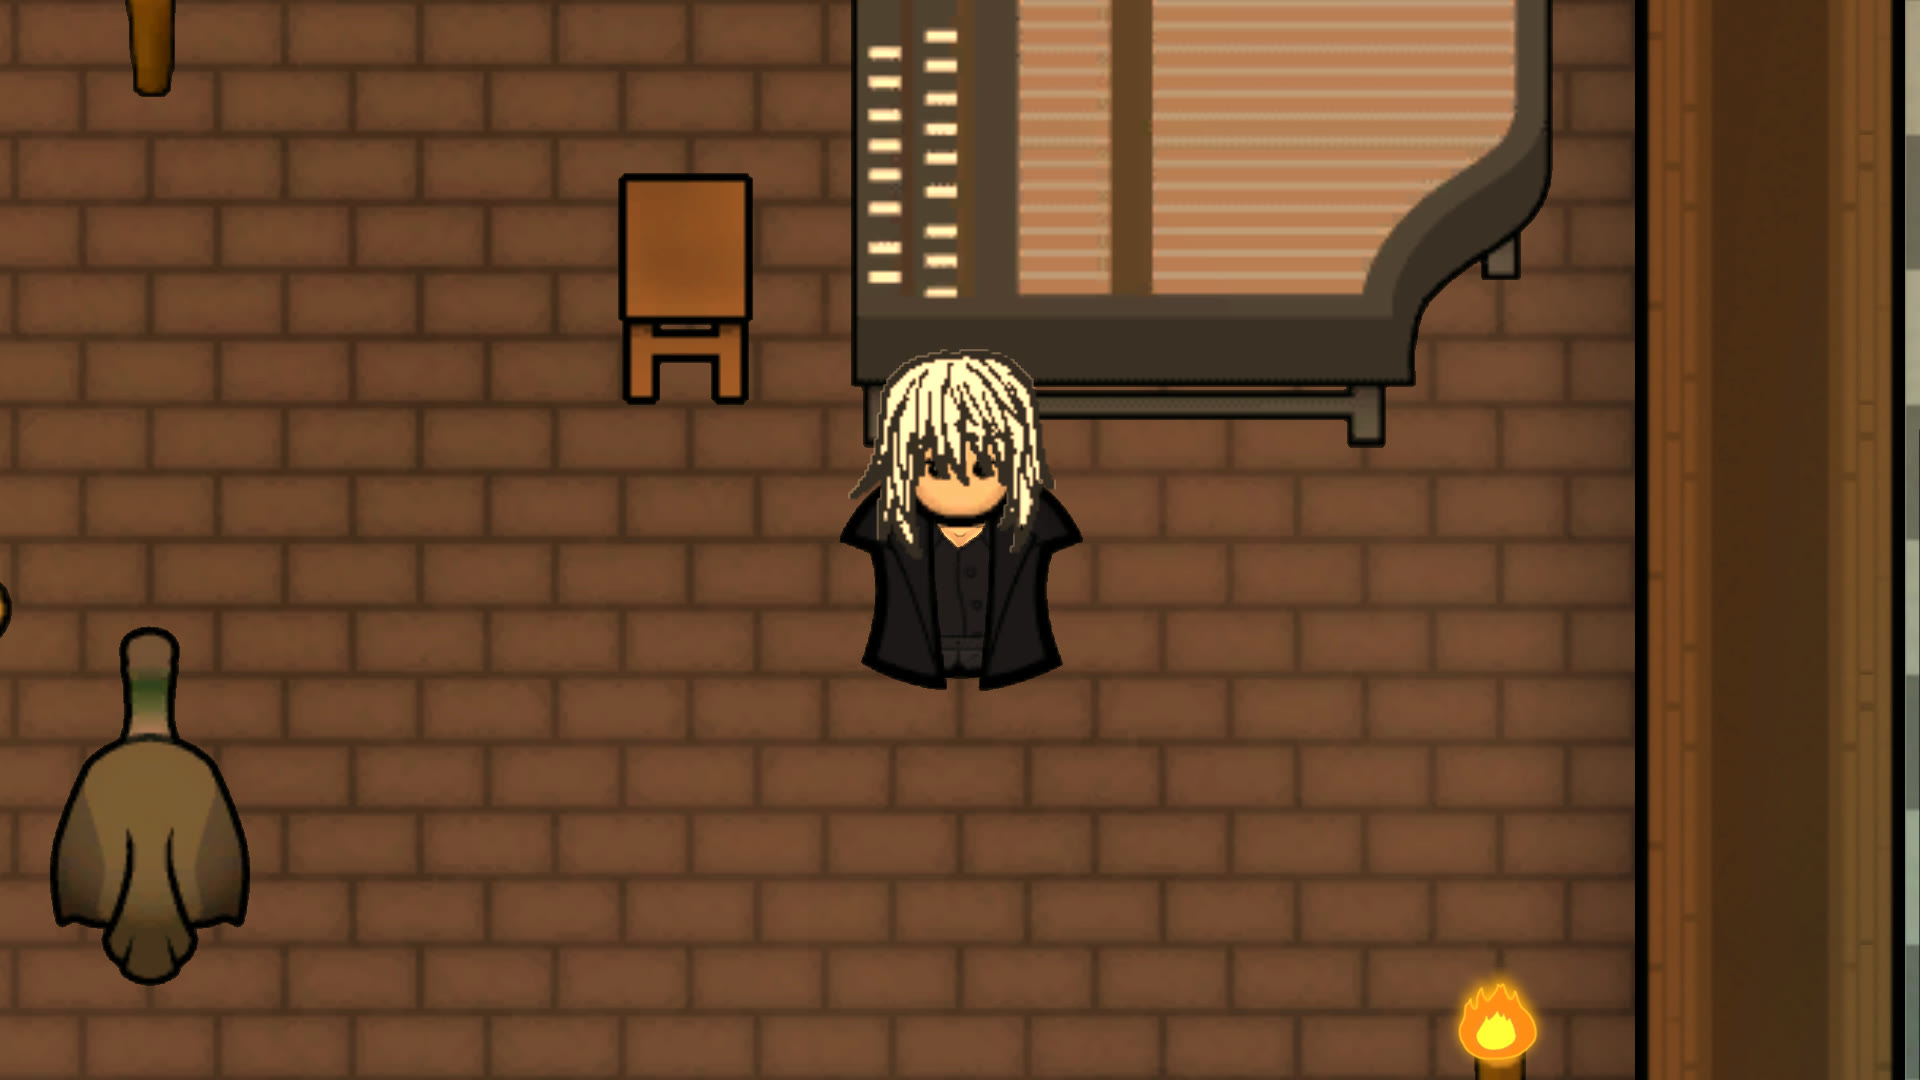
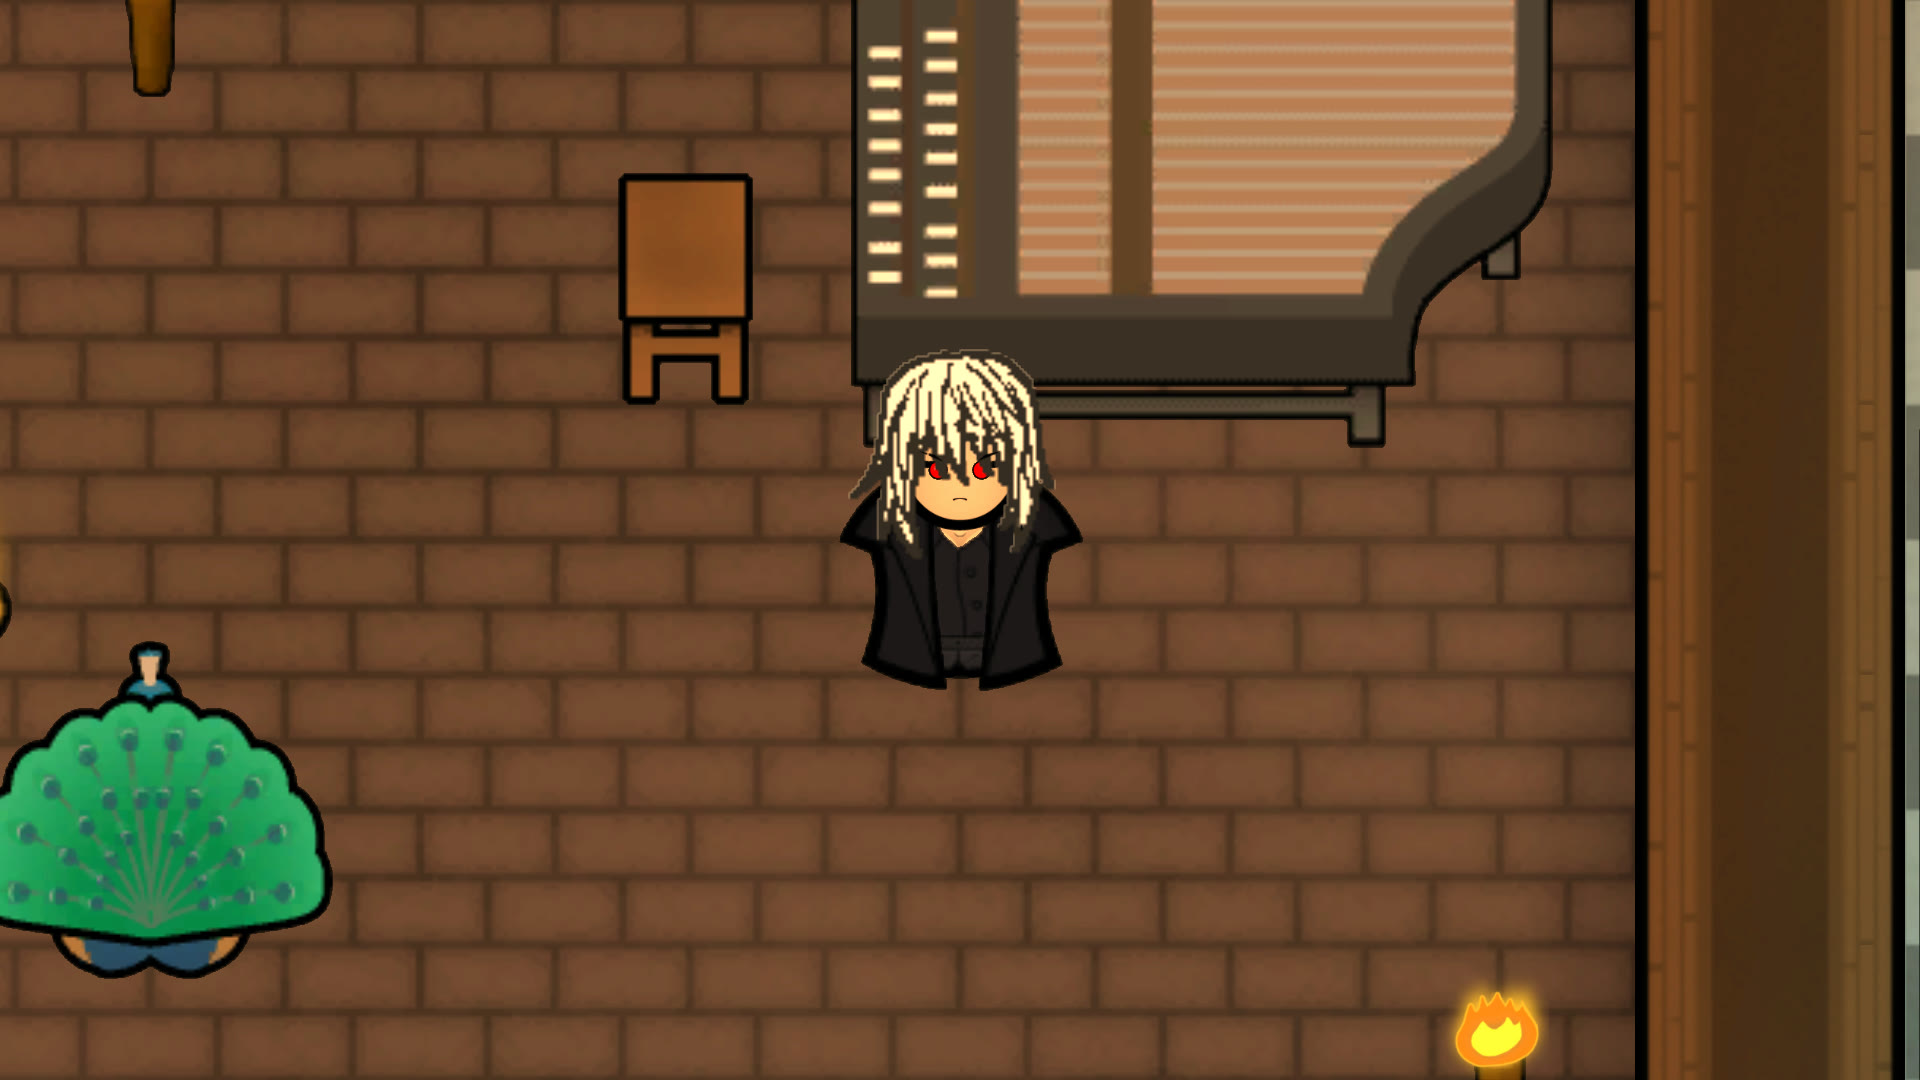
Gallery images 1 to 3 replaced by the portraits with eye colours and faces (run fc2b); PUBLICATION, STATUS and run history updated; comparison evidence removed

Changed region(s): [[0.0, 0.5806, 0.1875, 0.9167], [0.75, 0.8861, 0.8125, 1.0], [0.4688, 0.4278, 0.5312, 0.4889]]

diff --git a/PUBLICATION.md b/PUBLICATION.md
@@ -197,6 +197,6 @@ shows a wound or a corpse. Left unticked as for vanilla-level combat: decided by
 | `5-` | God's Power, all eight wings, a peacock walking in | the podium, 12:20 | Feature 18, scenario 5 |
 | `6-` | The dark matter propagator switched on against its power cells, a cat | the podium, 12:25 | Feature 18, scenario 6 |
 
-State on 2026-10-07: the series is played and installed. `1-` to `3-` come from run `9b6e` (pass `wsl-deps.galerie-tmw.map`: the pawns wear the Venus Touch Waistlines bodies and garments, owner's choice over the version without it), `4-` and `5-` from the same run, `6-` from run `ba7b` (rectangle framing, the six cells whole); JPEG, 1.8 MB in all, none over 320 KB. Kept as proof and for comparison: `Tests/Pickle/Evidence/2026-10-07-gallery-final4` (1 to 5), `-prop2` (6), `-tmw-1` and `-v2`, `-v2-seraph` (the same pictures without the waistlines mod), `-new` (first run, subjects walked out of frame). The framing uses PickleTools' `I frame the rectangle from (x1, z1) to (x2, z2)` and the long waits its `I let N ticks pass`. Every capture is read against its line of the plan after the run; a green run validates nothing. An anomaly that comes from the scene or from a shared tool (a painted zone, stack counts, pawn names, tinted light, the lightning icon) is reported to PickleTools (via Ticket Manager if it is unreachable), never worked around here.
+State on 2026-10-08: the series is played and installed. The pass is `wsl-deps.galerie.map` (the Sanctuary Backlot's map: WDI bodies with Venus Touch Waistlines garments, facial animation, EyeGenes3; the owner chose the version with the waistlines mod). `1-` to `3-` come from run `fc2b` (eyes by gene: Rina brown, Toma crimson, Sena green; Toma drafted for the angry face, Sena's face set to `normal`, Rina's soft smile is the default one), `4-` and `5-` from run `9b6e` (the beetle and the seraph with a green peacock: the sex of a spawned peacock is drawn at random, a run can give a drab peahen), `6-` from run `ba7b` (rectangle framing, the six cells whole); JPEG, 1.8 MB in all, none over 320 KB. Kept as proof: `Tests/Pickle/Evidence/2026-10-08-gallery-faces` (1 to 3), `-gallery-backlot` (the six on the Backlot map), `2026-10-07-gallery-final4` (4, 5), `-prop2` (6). The place steps are the Backlot's (`Nelim's Sanctuary: ...`), the tools PickleTools' (`Nelim's Pickle Tools: ...`). The framing uses PickleTools' `I frame the rectangle from (x1, z1) to (x2, z2)` and the long waits its `I let N ticks pass`. Every capture is read against its line of the plan after the run; a green run validates nothing. An anomaly that comes from the scene or from a shared tool (a painted zone, stack counts, pawn names, tinted light, the lightning icon) is reported to PickleTools (via Ticket Manager if it is unreachable), never worked around here.
 
 **Choices already made** (owner and author): a beard on Misaka was tried and dropped; the tea room of the Sanctuary was tried and dropped (its blue lamps tinted the white robe cyan); the propagator is shown powered (six vanometric cells for its 5 000 W, then the network refresh step of PickleTools); the podium's painted green zone is bared for the run.

diff --git a/docs/runs/history.md b/docs/runs/history.md
@@ -31,3 +31,4 @@ the detail, this file keeps only what still describes the published state.
 - 2026-09-30, **`1.0.2` published by the CI**: run `36783796843`, SHA `890c8743a46b930632a4da7ebf0bfb21ddeb8067`, dry-run `36782547484` on the same SHA (185 files, 1.37 MB), approved by the owner, tag `v1.0.2` and release created. `update_preview` on: the header image `Preview.png` (590,040 bytes; the echo behind the title no longer faded on the left) was sent, the other options off. Change note: "New header image for the page...".
 - 2026-10-05, **code review since `0.1.0`** (low effort, one diff pass on `Mod/` and its patches, tests skipped) of commit `916dc719c9c653c4862de23c92e48add12d977e9`: no finding. The French hairstyle labels now in English are the owner-validated review, not a defect.
 - 2026-10-07, **gallery series "Noon at the Sanctuary" played and installed**: features 17 and 18, run `9b6e` (pass `wsl-deps.galerie-tmw.map`, with Venus Touch Waistlines, six scenarios green, every capture read) and `ba7b` (propagator, rectangle framing); evidence kept in `Tests/Pickle/Evidence/2026-10-07-gallery-final4`, `-prop2`, `-tmw-1`, `-v2`, `-v2-seraph`, `-new`. Intermediate failures, none of them from the mod: `wait N ticks` timed out at 5 s (fixed by PickleTools `I let N ticks pass`), a staging error on the renamed waistlines mod, an intermittent startup crash (`663c`, signal 11, passed on the identical resubmission).
+- 2026-10-08, **gallery migrated to the Sanctuary Backlot and faces added**: pass `wsl-deps.galerie.map` (Backlot map), run `209d` (six green, migration check), run `fc2b` (feature 17: eyes by gene, Toma drafted, Sena `normal`; read one by one, installed as images 1 to 3). Evidence kept: `2026-10-08-gallery-faces`, `2026-10-08-gallery-backlot`, `2026-10-07-gallery-final4`, `2026-10-07-gallery-prop2`; the comparison runs with and without the waistlines mod are removed (the owner chose with).

diff --git a/STATUS.md b/STATUS.md
@@ -26,7 +26,7 @@ remaining:
   - gallery: done 2026-10-07, the series "Noon at the Sanctuary" is installed in `Art/Gallery/` (runs `9b6e` and `ba7b`, with Venus Touch Waistlines, read one by one); only the `1.0.3` dispatch is left (dry-run of the exact SHA, owner approves `steam-production`), then the manual upload of the six images and the header on Steam
   - ideas not started: `BACKLOG.md`
 session:      local_0370d2fc-d327-4091-bf8f-6481630fa3aa
-updated:      2026-10-07, gallery played and installed as the series "Noon at the Sanctuary" (features 17 and 18, runs `9b6e` and `ba7b`, JPEG 1.8 MB), two French corrections from the owner's review (`fabrication au`, the beetle is born wild, `n'amasseront jamais`); `_tools/` moved to `scripts/`, `Art/Preview.png` renamed `Preview-source.png`, thanks drafts kept in PUBLICATION.md
+updated:      2026-10-08, gallery migrated to the Backlot with eyes and faces (runs `209d`, `fc2b`; images 1 to 3 replaced), 2026-10-07 gallery played and installed as the series "Noon at the Sanctuary" (features 17 and 18, runs `9b6e` and `ba7b`, JPEG 1.8 MB), two French corrections from the owner's review (`fabrication au`, the beetle is born wild, `n'amasseront jamais`); `_tools/` moved to `scripts/`, `Art/Preview.png` renamed `Preview-source.png`, thanks drafts kept in PUBLICATION.md
 ---
 
 # A Certain Series - Creatures and Hair Renew — status
